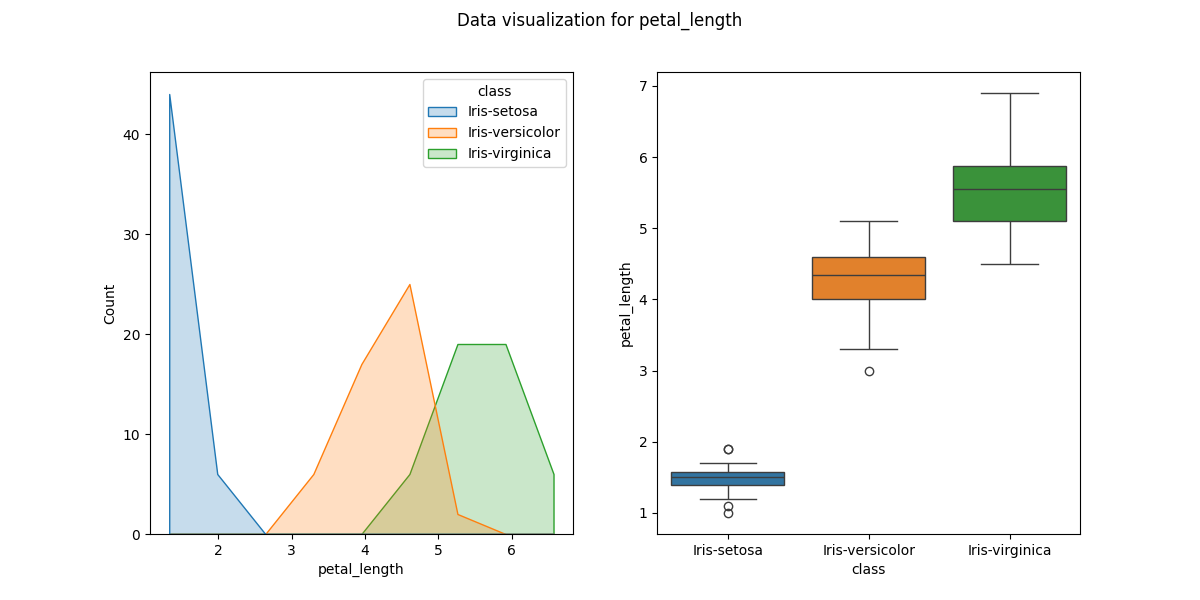
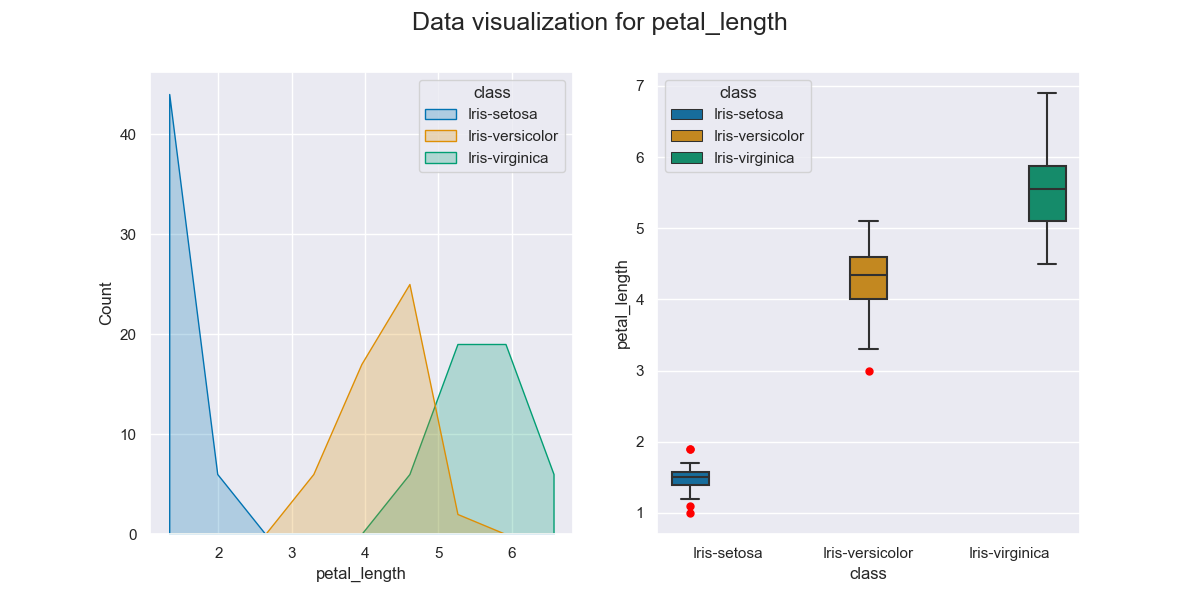
Scatter plot and aesthetics improvement. Not happy with legend placement on scatter. Will investigate

diff --git a/analysis.py b/analysis.py
@@ -11,11 +11,18 @@
 @Desc    :   Guillermo Martin projects for the 2024 Programming and Scripting course
 '''
  
- # Libraries
+# Libraries
 import os
 import pandas as pd
 import seaborn as sns
 import matplotlib.pyplot as plt
+
+#Common Plot aesthetics
+sns.set_theme(style="darkgrid",
+              palette="colorblind")
+sns.set_context(rc={"axes.labelsize":12,
+                    "axes.titlesize":14})
+
 
 #Creating directories for outputs: 
 dirs = ['./outputs','./outputs/summary','./outputs/figures']
@@ -50,25 +57,40 @@ for c in range(dat.shape[1]):
    if not dat.columns[c] == "class": #Dont make figures for class column
     
     fig, ax = plt.subplots(1, 2, figsize=(12, 6))  # Create a figure with two subplots
-    plt.suptitle(f"Data visualization for {dat.columns[c]}")
-    #ax[0].set_title("Histogram")
-    #ax[1].set_title("Boxplot")
+    plt.suptitle(f"Data visualization for {dat.columns[c]}",fontsize=18)
+
     sns.histplot(data=dat, x=dat.columns[c], hue="class", element="poly", ax=ax[0])
-    sns.boxplot(data=dat, y=dat.columns[c], x="class", hue="class", ax=ax[1])
+    sns.boxplot(data=dat, y=dat.columns[c], x="class", hue="class", ax=ax[1],
+                flierprops=dict(marker='o',markeredgecolor='red',markerfacecolor='red')) # Outlier colour reference: https://stackoverflow.com/questions/29647145/setting-flier-outlier-style-in-seaborn-boxplot-is-ignored
    
     plt.savefig(os.path.join(dirs[2],f"Data checks_{dat.columns[c]}.png")) 
     plt.close()  
 
 
 #Scatter plots of each pair
-fig, axs = plt.subplots(3, 2, figsize=(12, 12))
+fig, ax = plt.subplots(3, 2, figsize=(8, 8))
 
 cols = dat.columns[0:4]
 
-for i in range(len(dat.columns[0:4])):
-    for j in range(i + 1, len(dat.columns[0:4])):
-        sns.scatterplot(data=dat, x=dat.columns[i], y=dat.columns[j],hue="class", ax=axs[i, j - 1])
-        axs[i, i + j - 1].set_title(f"{dat.columns[i]} vs {dat.columns[j]}")
+counter = 0
 
-plt.tight_layout()
-plt.show()
+handles = []
+labels = []
+
+for i in range(len(cols)):
+    for j in range(i + 1, len(cols)):
+        row = counter//2
+        col= counter % 2
+        
+        p1=sns.scatterplot(data=dat, x=dat.columns[i], y=cols[j],hue="class", ax=ax[row, col])
+
+        handles, labels = p1.get_legend_handles_labels() #Single legend reference: https://stackoverflow.com/questions/9834452/how-do-i-make-a-single-legend-for-many-subplots
+
+        p1.get_legend().remove()
+
+        counter +=1
+
+fig.tight_layout()
+fig.legend(handles,labels,bbox_to_anchor=(0.5, 0),loc='lower center', ncol=3)
+fig.savefig(os.path.join(dirs[2],f"Scatter pair plots.png"))
+#fig.show()
